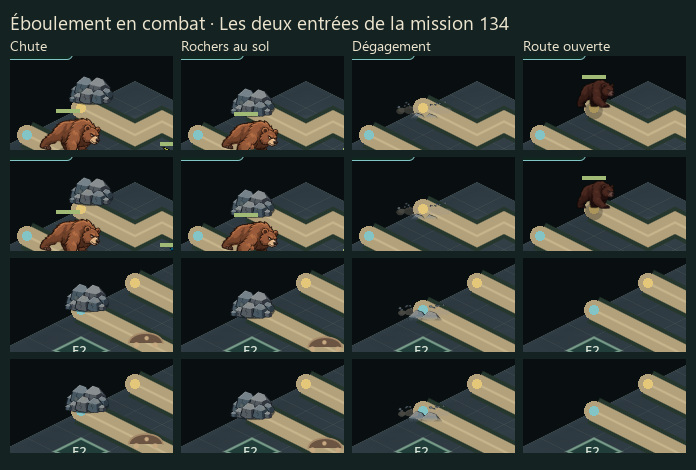
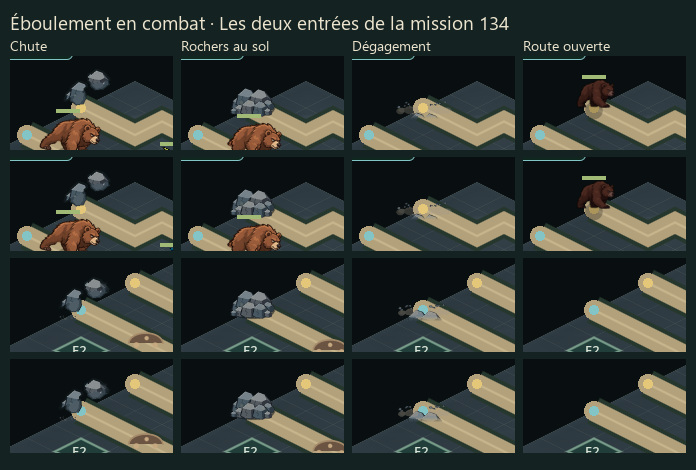
Build the rockfall pile from five successive falls

diff --git a/design/Visuels_Transitions_Eboulement.md b/design/Visuels_Transitions_Eboulement.md
@@ -1,8 +1,8 @@
 # Éboulement · chute et dégagement
 
-Proposition du 24 novembre 2026 sur la v0.247. Une masse de rochers descend en biais vers l’entrée, rebondit au sol et soulève un peu de poussière. Avant la réouverture, le tas descend dans la galerie et laisse quelques gravillons se disperser. Le dessin du tas, son empreinte au sol et l’avertissement existant servent de raccords.
+Proposition du 24 novembre 2026 sur la v0.247. Cinq chutes successives forment l’amas. Les gros blocs du fond se posent d’abord, puis les pierres plus basses complètent le premier plan. Les contacts les plus marqués soulèvent un peu de poussière. Le porteur a retenu le dégagement du premier essai, où le tas descend dans la galerie et laisse quelques gravillons se disperser. Le dessin du tas, son empreinte au sol et l’avertissement existant servent de raccords.
 
-- [GIF en combat sur la mission 121, taille de jeu et agrandissement](essais/eboulement_transitions/Eboulement_en_combat.gif)
+- [GIF en combat sur la mission 121, taille de jeu et agrandissement](essais/eboulement_transitions/Eboulement_amas_en_combat.gif)
 - [Comparatif des deux entrées de la mission 134](essais/eboulement_transitions/Eboulement_deux_entrees.jpg)
 
 ## Planches et synchronisation proposée
@@ -11,12 +11,12 @@ Les deux planches sont déclarées dans `prototype/assets/animations/effect.rock
 
 | Phase | État de la planche | Durée | Fenêtre du premier cycle |
 | --- | --- | ---: | --- |
-| Chute | `spawn`, 30 images dans `arrival.png` | 0,50 s | 12,00 à 12,50 s |
-| Tas au sol | `blocked`, boucle existante | 3,96 s | 12,50 à 16,46 s |
+| Chute | `spawn`, 41 images dans `arrival.png` | 0,68 s | 12,00 à 12,68 s |
+| Tas au sol | `blocked`, boucle existante | 3,78 s | 12,68 à 16,46 s |
 | Dégagement | `death`, 32 images dans `clearance.png` | 0,54 s | 16,46 à 17,00 s |
 
 Dans l’essai, `valley_view.gd::_draw_rockfall` sélectionne ces états avec l’âge du blocage et le temps restant, en l’ancrant sur la route désignée par le modèle. Entre les transitions, la boucle du tas effectue un nombre entier de cycles pour raccorder sa première image aux deux planches. La réouverture reste à 17 s, puis à 29 s sur le deuxième cycle. Si une planche de transition manque, le rendu peut conserver le tas existant. Le branchement a été essayé dans une copie de jeu et reste à intégrer par Claude Code après avis du porteur.
 
 ## Contrôles
 
-244 captures de la version de travail sur les missions 121 et 134, dans les deux factions. Deux cycles contrôlés par mission. En 134, l’effet change d’entrée entre les deux cycles. En 121, les deux premiers ours apparaissent toujours à 17,0 s et 17,3 s. Le GIF rapproche les deux transitions en écourtant le temps d’attente intermédiaire. Validateur des animations à zéro problème sur 66 dossiers. Régressions ciblées de la bibliothèque d’animations et de l’Éboulement réussies (230 et 2 039 contrôles).
+272 captures de la version de travail sur les missions 121 et 134, dans les deux factions. Deux cycles contrôlés par mission. En 134, l’effet change d’entrée entre les deux cycles. En 121, les deux premiers ours apparaissent toujours à 17,0 s et 17,3 s. Le GIF rapproche les deux transitions en écourtant le temps d’attente intermédiaire. Validateur des animations à zéro problème sur 66 dossiers. Régressions ciblées de la bibliothèque d’animations et de l’Éboulement réussies (230 et 2 039 contrôles).

diff --git a/ECHANGES_CODEX_VERS_CLAUDE.md b/ECHANGES_CODEX_VERS_CLAUDE.md
@@ -8,7 +8,7 @@ Format d'une entrée : `### AAAA-MM-JJ — Titre (ouvert)` puis le contenu : fic
 
 ### 2026-11-24 — Chute et dégagement de l’Éboulement (ouvert)
 
-`effect.rockfall` déclare deux planches événementielles. `spawn` dure 0,50 s dès l’activation. `death` occupe les 0,54 dernières secondes du blocage. L’essai utilise le temps de combat et l’ancre de la route visée. Au milieu, jouer `blocked` sur un nombre entier de cycles pour raccorder son image 0 aux transitions. Conserver les horaires de réouverture. Le branchement testé est limité à la copie de capture. Lot en attente de l’avis du porteur. [GIF, format et contrôles](design/Visuels_Transitions_Eboulement.md).
+`effect.rockfall` déclare deux planches événementielles. `spawn` a été repris en cinq chutes successives. Utiliser 41 images sur 0,68 s dès l’activation. Le porteur a retenu le dégagement. Sa planche `death` occupe toujours les 0,54 dernières secondes du blocage. L’essai utilise le temps de combat et l’ancre de la route visée. Au milieu, jouer `blocked` sur un nombre entier de cycles pour raccorder son image 0 aux transitions. Conserver les horaires de réouverture. Le branchement testé est limité à la copie de capture. La chute révisée attend l’avis du porteur. [GIF, format et contrôles](design/Visuels_Transitions_Eboulement.md).
 
 ### 2026-11-24 — Lisibilité des cinq affixes et réouverture des mines (ouvert)
 

diff --git a/PASSATION.md b/PASSATION.md
@@ -4,7 +4,7 @@ Mettre ce fichier à jour à chaque fin de mission ou changement d'agent (voir `
 
 ## État au 14 novembre 2026 — Codex
 
-**24 novembre — Chute et dégagement de l’Éboulement.** Deux planches pour `effect.rockfall`, essayées en combat sur les missions 121 et 134 dans les deux factions. Les règles et les temps de réouverture sont identiques. Validateur et suites ciblées réussis. En attente d’avis visuel et de branchement par Claude Code. [GIF et raccords](design/Visuels_Transitions_Eboulement.md).
+**24 novembre — Chute et dégagement de l’Éboulement.** Le porteur retient le dégagement de l’amas. La chute a été reprise en cinq arrivées successives (41 images en 0,68 s). Essai en combat sur les missions 121 et 134 dans les deux factions. Les temps de réouverture sont identiques. Validateur et suites ciblées réussis. La chute révisée attend l’avis du porteur avant branchement par Claude Code. [GIF et raccords](design/Visuels_Transitions_Eboulement.md).
 
 **24 novembre — Contrôle des cinq affixes étendus.** 50 missions en v0.244, puis 13 reprises en v0.247 dans les deux factions. Sur les mines 121, 122, 125 et 128, les deux premiers ours sortent à 17,0 et 17,3 s et se chevauchent. Les marches approuvées de l’Ours et de la Tortue ainsi que l’inclinaison de 13,3° sont intégrées en v0.247. [Bilan et captures](design/Visuels_Affixes_Controles_v0247.md).
 
